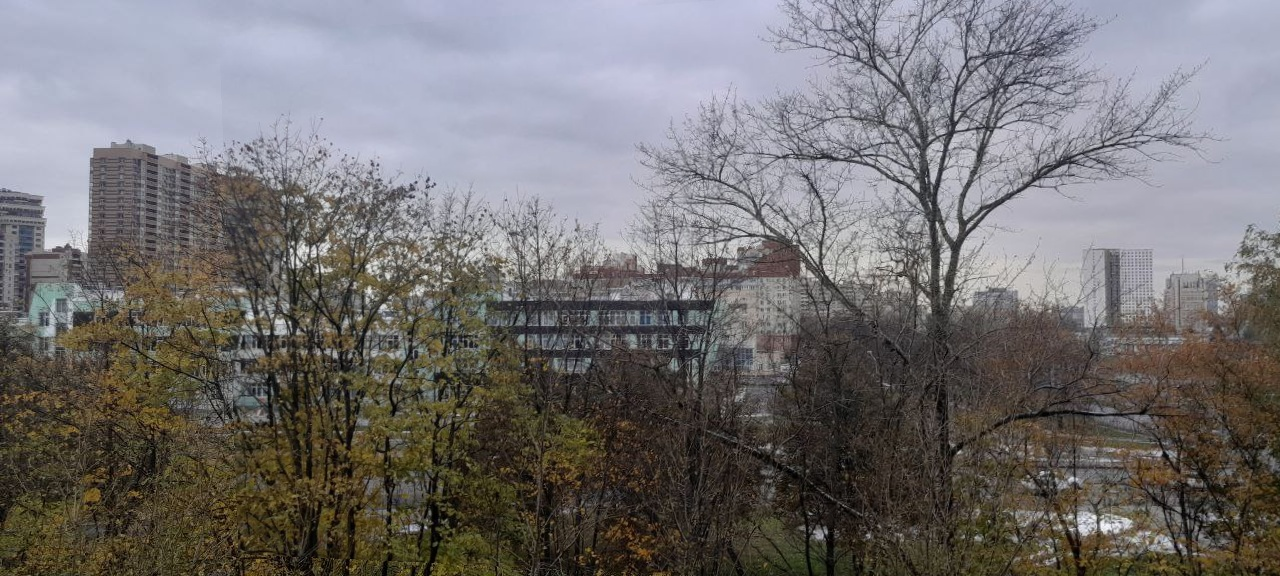
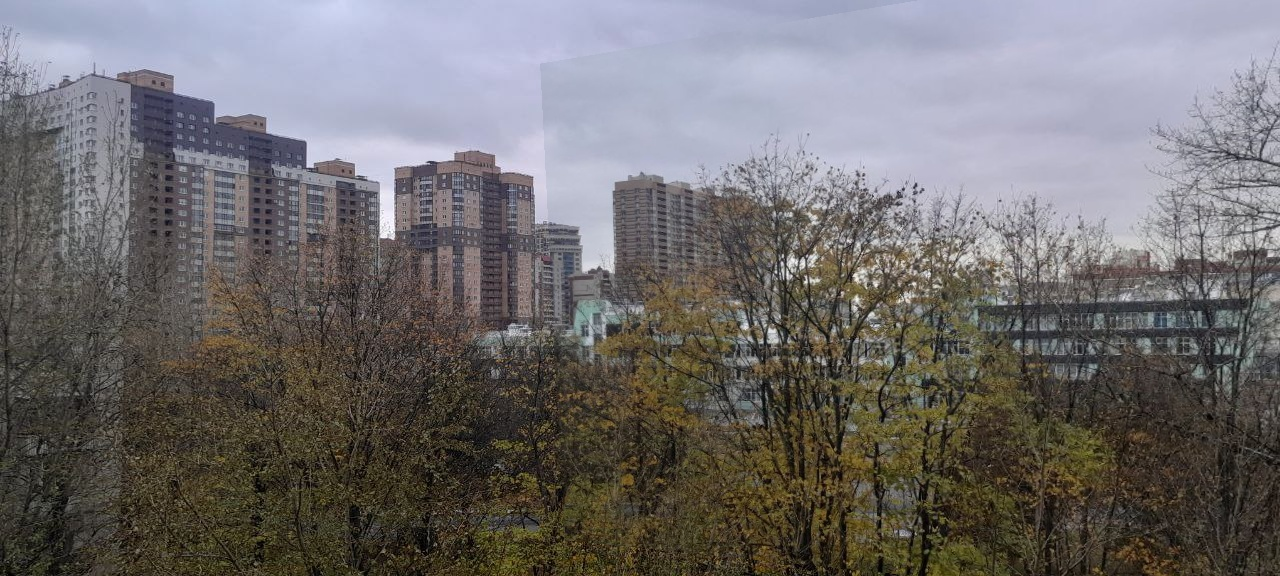
Fixed overlap order

diff --git a/lab3/include/panorama.h b/lab3/include/panorama.h
@@ -82,13 +82,13 @@ cv::Mat match(const std::vector<cv::Mat> &input_imgs, cv::Mat &output_img, cv::M
 
     cv::drawMatches(input_imgs[0], matched1, input_imgs[1], matched2, good_matches, matches_img);
     
-    cv::Mat homography = cv::findHomography(points1, points2, cv::RANSAC);
+    cv::Mat homography = cv::findHomography(points2, points1, cv::RANSAC);
     cv::Mat stitch_img;
 
-    cv::warpPerspective(input_imgs[0], stitch_img, homography, cv::Size(input_imgs[0].cols*2, input_imgs[0].rows));
-    output_img = stitch_img(cv::Rect(0, 0, input_imgs[1].cols*2, input_imgs[1].rows));
+    cv::warpPerspective(input_imgs[1], stitch_img, homography, cv::Size(input_imgs[1].cols*2, input_imgs[1].rows));
+    output_img = stitch_img(cv::Rect(0, 0, input_imgs[0].cols*2, input_imgs[0].rows));
 
-    sewing(input_imgs[1], output_img);
+    sewing(input_imgs[0], output_img);
 
     return output_img;
 }
